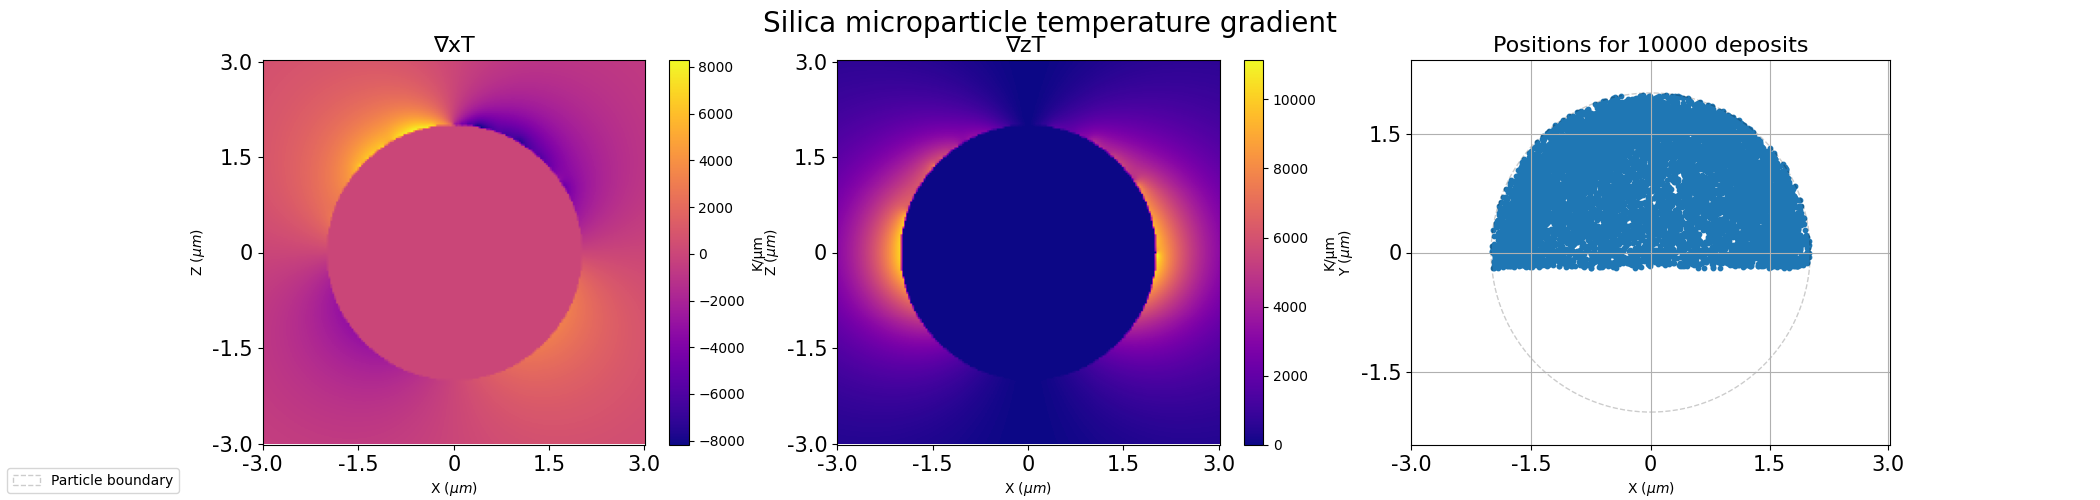
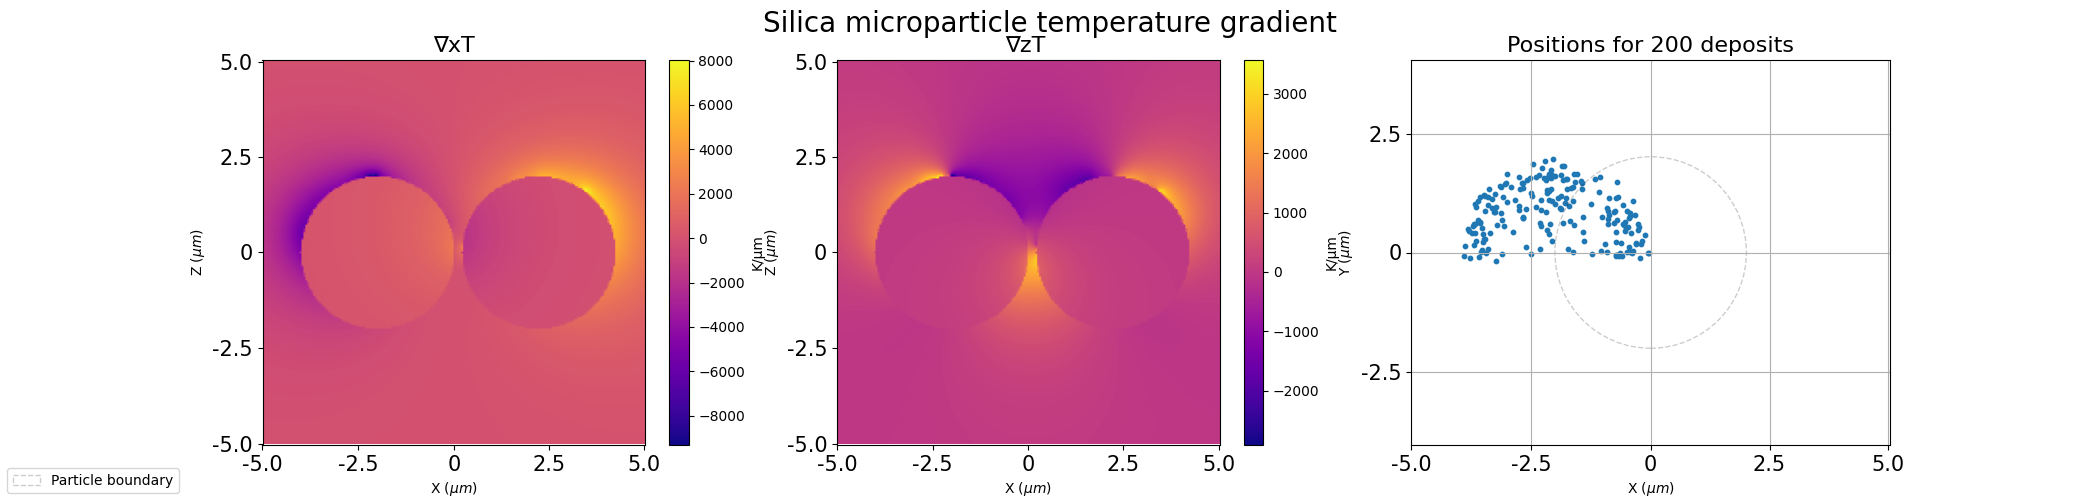
now works for generalized coordinates

diff --git a/thermophoresis/src/compute_gradient.cpp b/thermophoresis/src/compute_gradient.cpp
@@ -12,17 +12,18 @@ using namespace std;
 	double  dv;
 	int 	nDeposits;	
 	int	    nPoints;
-
+	double dl;
 
 
 double integral(double x, double y, double z,std::vector<Point> deposits){
 	//absorbtionTerm will compute the absorbed ammount of power from the laser
 	//ContributionSum will sum up contributions from all deposits
 	//Finally, the contributionSum is scaled with volume element dv and divided with constants												
-				double laserPower	           = I0 + I0*cos(twoPi*(x)/lambda);	
-				double absorbtionTerm          = laserPower*depositArea/(volumePerDeposit);
+	double laserPower	           = I0 + I0*cos(twoPi*(x)/lambda);	
+	double absorbtionTerm          = laserPower*depositArea/(volumePerDeposit);
 	double contributionSum 		   = 0.0;
-		//Since the values scale with the inverse square distance, this is the only heavy computation.
+	
+	//Since the values scale with the inverse square distance.
     	for (size_t i = 0; i < deposits.size(); i++){
 
     		double inverse_squareroot_distance = 1.0/sqrt(pow(x-deposits[i].x,2)+
@@ -33,20 +34,22 @@ double integral(double x, double y, double z,std::vector<Point> deposits){
     return contributionSum*absorbtionTerm*dv/(4*pi*waterConductivity); 
 }
 
+double central_difference(double x1,double y1,double z1,double x2, double y2, double z2, vector<Point> deposits);
 
 int main(int argc, char** argv) {
+	   
 	auto startTimer = std::chrono::high_resolution_clock::now();
 	bounds    = stold(argv[2])  * pow(10,-6); 
 	stepSize  = bounds/(double)(300);		  //Step size, based off of bounds parameter
 	nDeposits = stof(argv[1]);				  //number of deposits to initialize
 	//size of simulation box
-	lambda	       = stold(argv[3])  * pow(10,-9); //Spatial periodicity
-    dv       	   = stepSize*stepSize*stepSize;  //volume element for integral
+	lambda	  = stold(argv[3])  * pow(10,-9); //Spatial periodicity
+    	dv	  = stepSize*stepSize*stepSize;  //volume element for integral
 	
 	int nParticles =1;
 
 	Point centerOfParticle1 = {0.0,0.0,0.0}; 
-	Point centerOfParticle2 = {-1.05*particleRadius,0.0,0.0}; 
+	Point centerOfParticle2 = {-particleRadius,0.0,0.0}; 
 	Particle particle1(centerOfParticle1,particleRadius);
 	Particle particle2(centerOfParticle2,particleRadius);
 	vector<Particle> particles = {particle1,particle2};
@@ -77,7 +80,7 @@ int main(int argc, char** argv) {
 	/////////////////////////////////
 	//Compute gradient in X-direction
 	/////////////////////////////////
-	double dl = stepSize*stepSize;
+	dl = stepSize*stepSize;
 	double thickness = pow(25*stepSize,2);
 	double surfaceX = 0.0;
 	double surfaceZ = 0.0;
@@ -93,29 +96,29 @@ for(int n = 0; n < nParticles;n++){
 				double d = particles[n].getRadialDistance(point);
 				if (d > pow(particles[n].radius,2)){// && d < pow(particles[n].radius,2)+thickness){
 
-					double backX   			  = integral(x[i]-dl,y[j],z[k],particles[n].deposits);
-					double forwardX			  = integral(x[i]+dl,y[j],z[k],particles[n].deposits);
-					double backZ   			  = integral(x[i],y[j],z[k]-dl,particles[n].deposits);
-					double forwardZ			  = integral(x[i],y[j],z[k]+dl,particles[n].deposits);
-
-					double central_differenceX = (forwardX - backX)/(2*dl);	
-					double central_differenceZ = (forwardZ - backZ)/(2*dl);
+					double central_differenceX = central_difference(x[i]-dl,x[i]+dl,y[j],y[j],z[k],z[k],particles[n].deposits);
+					
+					double central_differenceZ = central_difference(x[i],x[i],y[j],y[j],z[k]-dl,z[k]+dl,particles[n].deposits);
+	
 
 					//Project on normal vector:
-					double perpendicularZ      = (central_differenceX*x[i]+central_differenceZ*z[k])*z[k]/d;
-					double perpendicularX      = (central_differenceX*x[i]+central_differenceZ*z[k])*x[i]/d;
+					double u = x[i]-particles[n].center.x;
+					double w = z[k]-particles[n].center.z;
+
+					double perpendicularZ      = (central_differenceX*u+central_differenceZ*w)*w/d;
+					double perpendicularX      = (central_differenceX*u+central_differenceZ*w)*u/d;
 
 					//Subtract to get tangential component
 					double tangentialX         = (central_differenceX - perpendicularX);
 					double tangentialZ         = (central_differenceZ - perpendicularZ);
 
-					//xGrad[i][j][k] 	       += perpendicular*25/1000;	
-					//zGrad[i][j][k] 		   += perpendicular*25/1000;	
+					//xGrad[i][j][k] 	       += perpendicularX*25/1000;	
+					//zGrad[i][j][k] 		   += perpendicularZ*25/1000;	
 					xGrad[i][j][k] 			   += tangentialX*25/1000;		
 					zGrad[i][j][k]   		   += tangentialZ*25/1000;
 
-					surfaceX		    += tangentialX*dl*dl;
-					surfaceZ			+= tangentialZ*dl*dl;
+					surfaceX		  	 += tangentialX*dl;
+					surfaceZ			 += tangentialZ*dl;
       			}
 				currentIteration++;
          		// Calculate progress percentage so that the user has something to look at
@@ -147,10 +150,17 @@ for(int n = 0; n < nParticles;n++){
   	std::cout << "Program completed after: " << elapsed_seconds << " seconds" << std::endl;
 	//////////////////////////////////////////////////////////////////	
 	//////////////////END PROGRAM/////////////////////////////////////
-	surfaceX = surfaceX/(2*pi*particleRadius);
-	surfaceZ = surfaceZ/(2*pi*particleRadius);
+	surfaceX = surfaceX/(4*pi*particleRadius*particleRadius);
+	surfaceZ = surfaceZ/(4*pi*particleRadius*particleRadius);
 	double total = sqrt(pow(surfaceX,2)+pow(surfaceZ,2));
 
-	std::cout<<surfaceX<<"\n" << surfaceZ<<"\n" << "magnitude = "<<total << "\n";
+	std::cout<<"Vx = "<< surfaceX<<"\n" << "Vz = "<< surfaceZ<<"\n" << "Vtot = "<<total << "\n";
 	return 0;
 }	
+
+double central_difference(double x1,double x2,double y1,double y2, double z1, double z2, vector<Point> deposits){
+	double back   		= integral(x1,y1,z1,deposits);
+	double forward		= integral(x2,y2,z2,deposits);
+	return (forward - back)/(2*dl);
+}
+

diff --git a/thermophoresis/gradient.py b/thermophoresis/gradient.py
@@ -6,6 +6,8 @@ import os
 import time 
 import subprocess
 import sys
+
+os.chdir("src")
 from matplotlib.patches import Circle
 from cython_functions import histogram2d_cython, gradient_cython
 
@@ -123,7 +125,7 @@ def generateFigure(imageBounds):
 
 #Main() below:
 #Navigate to folder containing c++ program
-os.chdir("src")
+
 resolution,nDeposits,generateData = parseArgs()
 if (generateData == "true"):
 	generateNewData()

diff --git a/thermophoresis/src/functions.h b/thermophoresis/src/functions.h
@@ -37,9 +37,9 @@ class Particle{
 		void writeDepositToCSV();
 };
 
+
 std::vector<double> arange(double start, double stop, double stepSize);
 void generateConfiguration(std::vector<Point> &deposits,int nDeposits); //Custom configuration
-void writeDepositToCSV(std::vector<Point> &deposits);
 void writeFieldToCSV(const std::vector<double>& x, 
 			    const std::vector<double>& y,
 			    const std::vector<double>& z,

diff --git a/thermophoresis/src/functions.cpp b/thermophoresis/src/functions.cpp
@@ -52,9 +52,8 @@ double Particle::getRadialDistance(Point r){
 }
 
 void Particle::writeDepositToCSV() {
-    std::ofstream outputFile("deposits.csv");
+	std::ofstream outputFile("deposits.csv");
     outputFile << "x,y,z" << "\n";
-    	
 	for (size_t i = 0; i < size(deposits); i++) {
 	        outputFile << (this->deposits)[i].x << "," << (this->deposits)[i].y  << "," << (this->deposits)[i].z  << "\n";
 	}

diff --git a/readme.md b/readme.md
@@ -1,5 +1,5 @@
 
-![alt text](https://raw.githubusercontent.com/Pwhsky/active-matter-thesis/main/janus-gradient/figures/quiver3.png?raw=true)
+![alt text](https://raw.githubusercontent.com/Pwhsky/active-matter-thesis/main/thermophoresis/figures/quiver3.png?raw=true)
 
 # Requirements:
 G++, Pandas, Matplotlib, pyarrow, and whatever other packages I forgot to list here that python will complain about...
